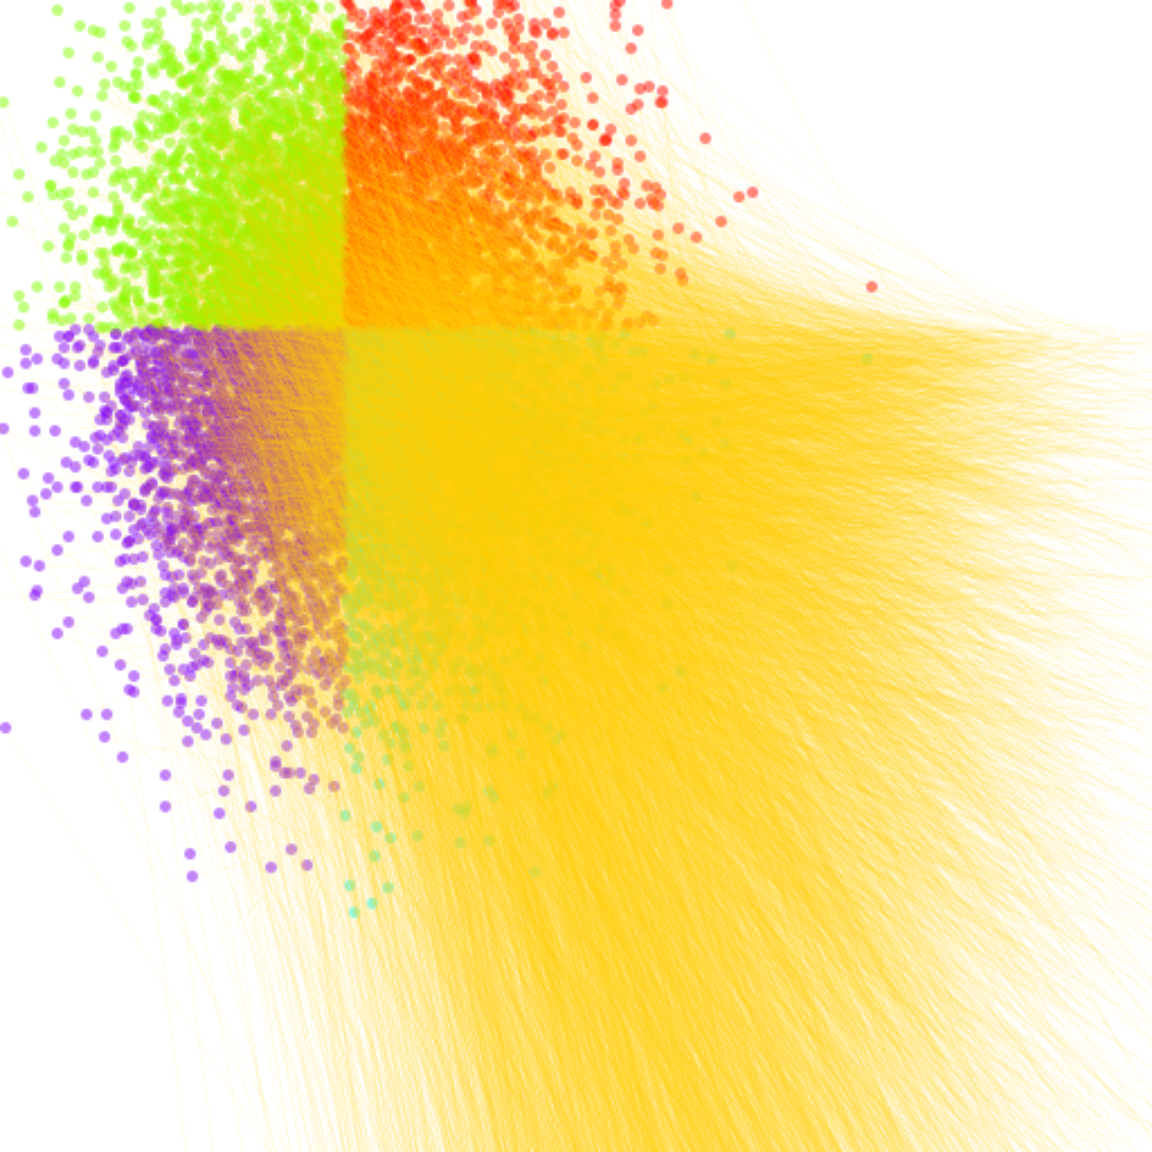
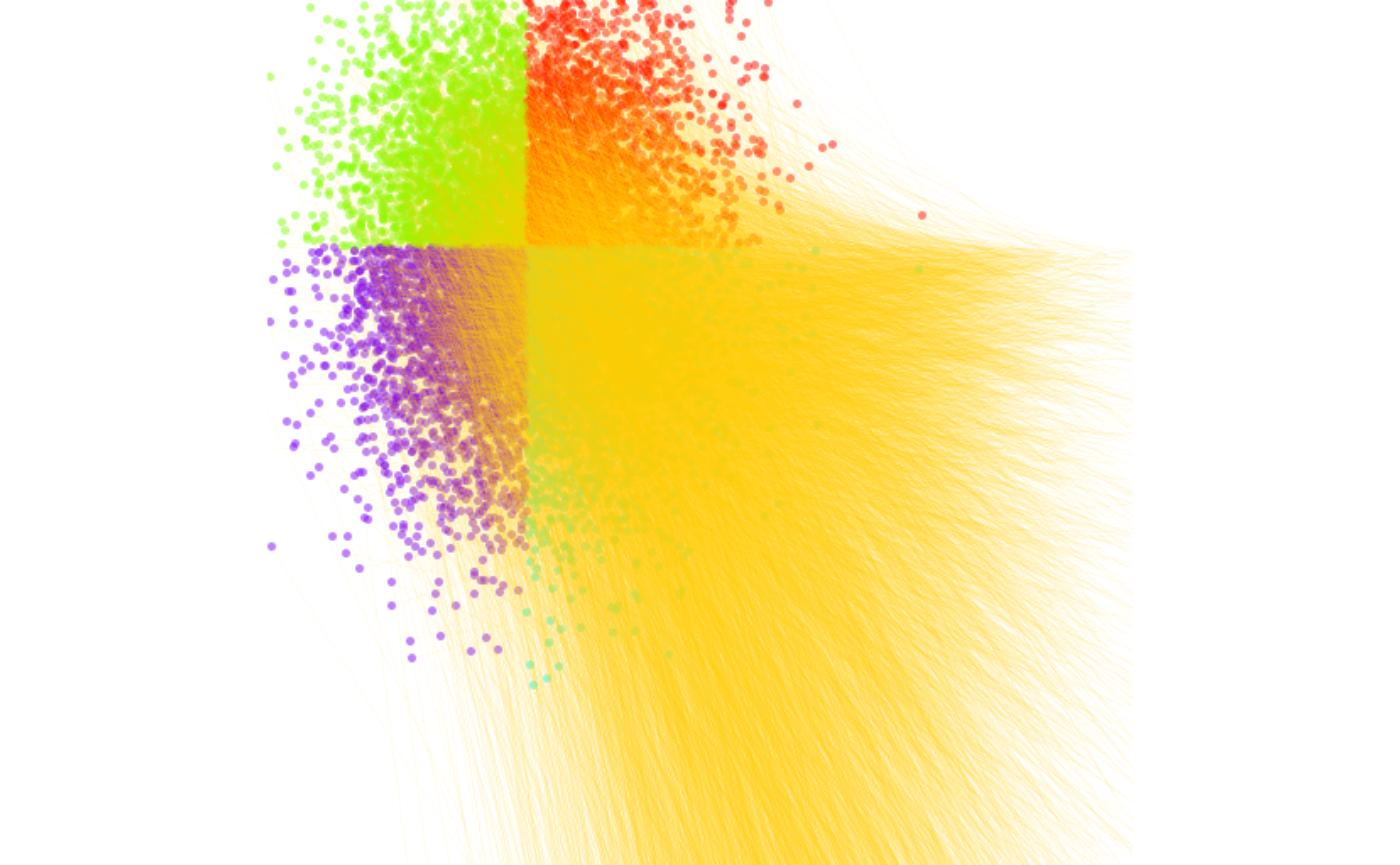
Deploying to gh-pages from @ exaexa/scattermore@2ea18d450dff82cafbe0e912d24947ca24e10dc3 🚀

diff --git a/articles/low_level_interface.html b/articles/low_level_interface.html
@@ -128,14 +128,14 @@ directions:</p>
 <span></span>
 <span><span class="fu"><a href="https://rdrr.io/r/graphics/par.html" class="external-link">par</a></span><span class="op">(</span>mar <span class="op">=</span> <span class="fu"><a href="https://rdrr.io/r/base/c.html" class="external-link">c</a></span><span class="op">(</span><span class="fl">0</span>,<span class="fl">0</span>,<span class="fl">0</span>,<span class="fl">0</span><span class="op">)</span>, bg<span class="op">=</span><span class="st">'white'</span><span class="op">)</span></span>
 <span><span class="fu"><a href="https://rdrr.io/r/graphics/image.html" class="external-link">image</a></span><span class="op">(</span><span class="va">pdens</span><span class="op">)</span></span></code></pre></div>
-<p><img src="low_level_interface_files/figure-html/unnamed-chunk-3-1.png" width="480"></p>
+<p><img src="low_level_interface_files/figure-html/unnamed-chunk-3-1.png" width="700"></p>
 <p>The same can be done for plotting the densities over the lines:</p>
 <div class="sourceCode" id="cb4"><pre class="downlit sourceCode r">
 <code class="sourceCode R"><span><span class="va">ldens</span> <span class="op">&lt;-</span> <span class="fu">scattermore</span><span class="fu">::</span><span class="fu"><a href="../reference/scatter_lines_histogram.html">scatter_lines_histogram</a></span><span class="op">(</span><span class="fu"><a href="https://rdrr.io/r/base/cbind.html" class="external-link">cbind</a></span><span class="op">(</span><span class="va">pts</span>, <span class="va">pts2</span><span class="op">)</span>, out_size<span class="op">=</span><span class="fu"><a href="https://rdrr.io/r/base/c.html" class="external-link">c</a></span><span class="op">(</span><span class="fl">256</span>,<span class="fl">256</span><span class="op">)</span><span class="op">)</span></span>
 <span></span>
 <span><span class="fu"><a href="https://rdrr.io/r/graphics/par.html" class="external-link">par</a></span><span class="op">(</span>mar <span class="op">=</span> <span class="fu"><a href="https://rdrr.io/r/base/c.html" class="external-link">c</a></span><span class="op">(</span><span class="fl">0</span>,<span class="fl">0</span>,<span class="fl">0</span>,<span class="fl">0</span><span class="op">)</span>, bg<span class="op">=</span><span class="st">'white'</span><span class="op">)</span></span>
 <span><span class="fu"><a href="https://rdrr.io/r/graphics/image.html" class="external-link">image</a></span><span class="op">(</span><span class="va">ldens</span><span class="op">)</span></span></code></pre></div>
-<p><img src="low_level_interface_files/figure-html/unnamed-chunk-4-1.png" width="480"></p>
+<p><img src="low_level_interface_files/figure-html/unnamed-chunk-4-1.png" width="700"></p>
 <p>Densities are simple matrices, so in order to improve the
 visualization you can apply the usual R math functions to their
 contents:</p>
@@ -144,7 +144,7 @@ contents:</p>
 <span></span>
 <span><span class="fu"><a href="https://rdrr.io/r/graphics/par.html" class="external-link">par</a></span><span class="op">(</span>mar <span class="op">=</span> <span class="fu"><a href="https://rdrr.io/r/base/c.html" class="external-link">c</a></span><span class="op">(</span><span class="fl">0</span>,<span class="fl">0</span>,<span class="fl">0</span>,<span class="fl">0</span><span class="op">)</span>, bg<span class="op">=</span><span class="st">'white'</span><span class="op">)</span></span>
 <span><span class="fu"><a href="https://rdrr.io/r/graphics/image.html" class="external-link">image</a></span><span class="op">(</span><span class="fu"><a href="https://rdrr.io/r/base/Log.html" class="external-link">log1p</a></span><span class="op">(</span><span class="va">ldens</span><span class="op">)</span><span class="op">)</span></span></code></pre></div>
-<p><img src="low_level_interface_files/figure-html/unnamed-chunk-5-1.png" width="480"></p>
+<p><img src="low_level_interface_files/figure-html/unnamed-chunk-5-1.png" width="700"></p>
 </div>
 <div class="section level3">
 <h3 id="plotting-data-as-colored-pixels">Plotting data as colored pixels<a class="anchor" aria-label="anchor" href="#plotting-data-as-colored-pixels"></a>
@@ -162,7 +162,7 @@ displayed area using <code>xlim</code> and <code>ylim</code>.</p>
 <span></span>
 <span><span class="fu"><a href="https://rdrr.io/r/graphics/par.html" class="external-link">par</a></span><span class="op">(</span>mar<span class="op">=</span><span class="fu"><a href="https://rdrr.io/r/base/c.html" class="external-link">c</a></span><span class="op">(</span><span class="fl">0</span>,<span class="fl">0</span>,<span class="fl">0</span>,<span class="fl">0</span><span class="op">)</span>, bg<span class="op">=</span><span class="st">'white'</span><span class="op">)</span></span>
 <span><span class="fu"><a href="https://rdrr.io/r/graphics/plot.default.html" class="external-link">plot</a></span><span class="op">(</span><span class="va">rstr</span><span class="op">)</span></span></code></pre></div>
-<p><img src="low_level_interface_files/figure-html/unnamed-chunk-6-1.png" width="480"></p>
+<p><img src="low_level_interface_files/figure-html/unnamed-chunk-6-1.png" width="700"></p>
 <p>You can specify a single color (possibly with alpha channel) for
 plotting; here we force a lower resolution and turn off pixel
 interpolation to show the transparency effect more precisely:</p>
@@ -172,7 +172,7 @@ interpolation to show the transparency effect more precisely:</p>
 <span></span>
 <span><span class="fu"><a href="https://rdrr.io/r/graphics/par.html" class="external-link">par</a></span><span class="op">(</span>mar<span class="op">=</span><span class="fu"><a href="https://rdrr.io/r/base/c.html" class="external-link">c</a></span><span class="op">(</span><span class="fl">0</span>,<span class="fl">0</span>,<span class="fl">0</span>,<span class="fl">0</span><span class="op">)</span>, bg<span class="op">=</span><span class="st">'white'</span><span class="op">)</span></span>
 <span><span class="fu"><a href="https://rdrr.io/r/graphics/plot.default.html" class="external-link">plot</a></span><span class="op">(</span><span class="va">rstr</span>, interpolate<span class="op">=</span><span class="cn">F</span><span class="op">)</span></span></code></pre></div>
-<p><img src="low_level_interface_files/figure-html/unnamed-chunk-7-1.png" width="480"></p>
+<p><img src="low_level_interface_files/figure-html/unnamed-chunk-7-1.png" width="700"></p>
 <p>The <code>RGBA</code> parameter may also assign individual colors to
 each pixel:</p>
 <div class="sourceCode" id="cb8"><pre class="downlit sourceCode r">
@@ -181,7 +181,7 @@ each pixel:</p>
 <span></span>
 <span><span class="fu"><a href="https://rdrr.io/r/graphics/par.html" class="external-link">par</a></span><span class="op">(</span>mar<span class="op">=</span><span class="fu"><a href="https://rdrr.io/r/base/c.html" class="external-link">c</a></span><span class="op">(</span><span class="fl">0</span>,<span class="fl">0</span>,<span class="fl">0</span>,<span class="fl">0</span><span class="op">)</span>, bg<span class="op">=</span><span class="st">'white'</span><span class="op">)</span></span>
 <span><span class="fu"><a href="https://rdrr.io/r/graphics/plot.default.html" class="external-link">plot</a></span><span class="op">(</span><span class="va">rstr</span>, interpolate<span class="op">=</span><span class="cn">F</span><span class="op">)</span></span></code></pre></div>
-<p><img src="low_level_interface_files/figure-html/unnamed-chunk-8-1.png" width="480"></p>
+<p><img src="low_level_interface_files/figure-html/unnamed-chunk-8-1.png" width="700"></p>
 <p>For plotting large clusters that share the colors, arguments
 <code>map</code> and <code>palette</code> allow for simpler and more
 efficient specification of the plotting:</p>
@@ -192,7 +192,7 @@ efficient specification of the plotting:</p>
 <span></span>
 <span><span class="fu"><a href="https://rdrr.io/r/graphics/par.html" class="external-link">par</a></span><span class="op">(</span>mar<span class="op">=</span><span class="fu"><a href="https://rdrr.io/r/base/c.html" class="external-link">c</a></span><span class="op">(</span><span class="fl">0</span>,<span class="fl">0</span>,<span class="fl">0</span>,<span class="fl">0</span><span class="op">)</span>, bg<span class="op">=</span><span class="st">'white'</span><span class="op">)</span></span>
 <span><span class="fu"><a href="https://rdrr.io/r/graphics/plot.default.html" class="external-link">plot</a></span><span class="op">(</span><span class="va">rstr</span>, interpolate<span class="op">=</span><span class="cn">F</span><span class="op">)</span></span></code></pre></div>
-<p><img src="low_level_interface_files/figure-html/unnamed-chunk-9-1.png" width="480"></p>
+<p><img src="low_level_interface_files/figure-html/unnamed-chunk-9-1.png" width="700"></p>
 <p>Colored RGBWT lines are plotted similarly:</p>
 <div class="sourceCode" id="cb10"><pre class="downlit sourceCode r">
 <code class="sourceCode R"><span><span class="co">#TODO as.vector</span></span>
@@ -203,7 +203,7 @@ efficient specification of the plotting:</p>
 <span></span>
 <span><span class="fu"><a href="https://rdrr.io/r/graphics/par.html" class="external-link">par</a></span><span class="op">(</span>mar<span class="op">=</span><span class="fu"><a href="https://rdrr.io/r/base/c.html" class="external-link">c</a></span><span class="op">(</span><span class="fl">0</span>,<span class="fl">0</span>,<span class="fl">0</span>,<span class="fl">0</span><span class="op">)</span>, bg<span class="op">=</span><span class="st">'white'</span><span class="op">)</span></span>
 <span><span class="fu"><a href="https://rdrr.io/r/graphics/plot.default.html" class="external-link">plot</a></span><span class="op">(</span><span class="va">rstr</span><span class="op">)</span></span></code></pre></div>
-<p><img src="low_level_interface_files/figure-html/unnamed-chunk-10-1.png" width="576"></p>
+<p><img src="low_level_interface_files/figure-html/unnamed-chunk-10-1.png" width="700"></p>
 </div>
 <div class="section level3">
 <h3 id="expanding-densities-and-rgbwt-plots">Expanding densities and RGBWT plots<a class="anchor" aria-label="anchor" href="#expanding-densities-and-rgbwt-plots"></a>
@@ -222,7 +222,7 @@ computationally regular, giving additional speedups.</p>
 <span></span>
 <span><span class="fu"><a href="https://rdrr.io/r/graphics/par.html" class="external-link">par</a></span><span class="op">(</span>mar<span class="op">=</span><span class="fu"><a href="https://rdrr.io/r/base/c.html" class="external-link">c</a></span><span class="op">(</span><span class="fl">0</span>,<span class="fl">0</span>,<span class="fl">0</span>,<span class="fl">0</span><span class="op">)</span>, bg<span class="op">=</span><span class="st">'white'</span><span class="op">)</span></span>
 <span><span class="fu"><a href="https://rdrr.io/r/graphics/plot.default.html" class="external-link">plot</a></span><span class="op">(</span><span class="va">rstr</span><span class="op">)</span></span></code></pre></div>
-<p><img src="low_level_interface_files/figure-html/unnamed-chunk-11-1.png" width="576"></p>
+<p><img src="low_level_interface_files/figure-html/unnamed-chunk-11-1.png" width="700"></p>
 <p>This is sub-optimal because the pixels are too small; to fix that we
 can expand them:</p>
 <div class="sourceCode" id="cb12"><pre class="downlit sourceCode r">
@@ -232,7 +232,7 @@ can expand them:</p>
 <span></span>
 <span><span class="fu"><a href="https://rdrr.io/r/graphics/par.html" class="external-link">par</a></span><span class="op">(</span>mar<span class="op">=</span><span class="fu"><a href="https://rdrr.io/r/base/c.html" class="external-link">c</a></span><span class="op">(</span><span class="fl">0</span>,<span class="fl">0</span>,<span class="fl">0</span>,<span class="fl">0</span><span class="op">)</span>, bg<span class="op">=</span><span class="st">'white'</span><span class="op">)</span></span>
 <span><span class="fu"><a href="https://rdrr.io/r/graphics/plot.default.html" class="external-link">plot</a></span><span class="op">(</span><span class="va">rstr</span><span class="op">)</span></span></code></pre></div>
-<p><img src="low_level_interface_files/figure-html/unnamed-chunk-12-1.png" width="576"></p>
+<p><img src="low_level_interface_files/figure-html/unnamed-chunk-12-1.png" width="700"></p>
 <p>There are also other expansion options (such as <code>gauss</code>
 and <code>square</code>). You can also supply your own kernel in order
 to plot different shapes of pixels:</p>
@@ -244,7 +244,7 @@ to plot different shapes of pixels:</p>
 <span></span>
 <span><span class="fu"><a href="https://rdrr.io/r/graphics/par.html" class="external-link">par</a></span><span class="op">(</span>mar<span class="op">=</span><span class="fu"><a href="https://rdrr.io/r/base/c.html" class="external-link">c</a></span><span class="op">(</span><span class="fl">0</span>,<span class="fl">0</span>,<span class="fl">0</span>,<span class="fl">0</span><span class="op">)</span>, bg<span class="op">=</span><span class="st">'white'</span><span class="op">)</span></span>
 <span><span class="fu"><a href="https://rdrr.io/r/graphics/plot.default.html" class="external-link">plot</a></span><span class="op">(</span><span class="va">rstr</span><span class="op">)</span></span></code></pre></div>
-<p><img src="low_level_interface_files/figure-html/unnamed-chunk-13-1.png" width="576"></p>
+<p><img src="low_level_interface_files/figure-html/unnamed-chunk-13-1.png" width="700"></p>
 <p>The same can be applied to line data to get thicker lines (we limit
 the number of lines for simplicity here):</p>
 <div class="sourceCode" id="cb14"><pre class="downlit sourceCode r">
@@ -256,7 +256,7 @@ the number of lines for simplicity here):</p>
 <span></span>
 <span><span class="fu"><a href="https://rdrr.io/r/graphics/par.html" class="external-link">par</a></span><span class="op">(</span>mar<span class="op">=</span><span class="fu"><a href="https://rdrr.io/r/base/c.html" class="external-link">c</a></span><span class="op">(</span><span class="fl">0</span>,<span class="fl">0</span>,<span class="fl">0</span>,<span class="fl">0</span><span class="op">)</span>, bg<span class="op">=</span><span class="st">'white'</span><span class="op">)</span></span>
 <span><span class="fu"><a href="https://rdrr.io/r/graphics/plot.default.html" class="external-link">plot</a></span><span class="op">(</span><span class="va">rstr</span><span class="op">)</span></span></code></pre></div>
-<p><img src="low_level_interface_files/figure-html/unnamed-chunk-14-1.png" width="576"></p>
+<p><img src="low_level_interface_files/figure-html/unnamed-chunk-14-1.png" width="700"></p>
 <p>Gaussian kernels are excellent for smoothing out point and line
 densities. As the main change, we need to use the histogram-specific
 kernel function:</p>
@@ -266,7 +266,7 @@ kernel function:</p>
 <span></span>
 <span><span class="fu"><a href="https://rdrr.io/r/graphics/par.html" class="external-link">par</a></span><span class="op">(</span>mar <span class="op">=</span> <span class="fu"><a href="https://rdrr.io/r/base/c.html" class="external-link">c</a></span><span class="op">(</span><span class="fl">0</span>,<span class="fl">0</span>,<span class="fl">0</span>,<span class="fl">0</span><span class="op">)</span>, bg<span class="op">=</span><span class="st">'white'</span><span class="op">)</span></span>
 <span><span class="fu"><a href="https://rdrr.io/r/graphics/image.html" class="external-link">image</a></span><span class="op">(</span><span class="va">pdens</span>, col<span class="op">=</span><span class="fu"><a href="https://rdrr.io/r/grDevices/palettes.html" class="external-link">rainbow</a></span><span class="op">(</span><span class="fl">100</span><span class="op">)</span><span class="op">)</span></span></code></pre></div>
-<p><img src="low_level_interface_files/figure-html/unnamed-chunk-15-1.png" width="480"></p>
+<p><img src="low_level_interface_files/figure-html/unnamed-chunk-15-1.png" width="700"></p>
 <p>The calculated densities can be trivially used for overlaying the
 images with contours. (N. B. that the default gaussian kernels are not
 “balanced” and increase the total weight present in the graphics; you
@@ -276,7 +276,7 @@ parameter.)</p>
 <code class="sourceCode R"><span><span class="fu"><a href="https://rdrr.io/r/graphics/par.html" class="external-link">par</a></span><span class="op">(</span>mar <span class="op">=</span> <span class="fu"><a href="https://rdrr.io/r/base/c.html" class="external-link">c</a></span><span class="op">(</span><span class="fl">0</span>,<span class="fl">0</span>,<span class="fl">0</span>,<span class="fl">0</span><span class="op">)</span>, bg<span class="op">=</span><span class="st">'white'</span><span class="op">)</span></span>
 <span><span class="fu"><a href="https://rdrr.io/r/graphics/image.html" class="external-link">image</a></span><span class="op">(</span><span class="va">pdens</span>, col<span class="op">=</span><span class="fu"><a href="https://rdrr.io/r/grDevices/palettes.html" class="external-link">topo.colors</a></span><span class="op">(</span><span class="fl">100</span><span class="op">)</span><span class="op">[</span><span class="fl">20</span><span class="op">:</span><span class="fl">100</span><span class="op">]</span><span class="op">)</span></span>
 <span><span class="fu"><a href="https://rdrr.io/r/graphics/contour.html" class="external-link">contour</a></span><span class="op">(</span><span class="va">pdens</span><span class="op">-</span><span class="fl">15</span>, levels<span class="op">=</span><span class="fu"><a href="https://rdrr.io/r/base/c.html" class="external-link">c</a></span><span class="op">(</span><span class="op">-</span><span class="fl">10</span>,<span class="fl">0</span>,<span class="fl">30</span><span class="op">)</span>, add<span class="op">=</span><span class="cn">T</span><span class="op">)</span></span></code></pre></div>
-<p><img src="low_level_interface_files/figure-html/unnamed-chunk-16-1.png" width="480"></p>
+<p><img src="low_level_interface_files/figure-html/unnamed-chunk-16-1.png" width="700"></p>
 </div>
 <div class="section level3">
 <h3 id="coloring-densities">Coloring densities<a class="anchor" aria-label="anchor" href="#coloring-densities"></a>
@@ -292,7 +292,7 @@ useful for later blending with other RGBWT data.</p>
 <span></span>
 <span><span class="fu"><a href="https://rdrr.io/r/graphics/par.html" class="external-link">par</a></span><span class="op">(</span>mar<span class="op">=</span><span class="fu"><a href="https://rdrr.io/r/base/c.html" class="external-link">c</a></span><span class="op">(</span><span class="fl">0</span>,<span class="fl">0</span>,<span class="fl">0</span>,<span class="fl">0</span><span class="op">)</span>, bg<span class="op">=</span><span class="st">'white'</span><span class="op">)</span></span>
 <span><span class="fu"><a href="https://rdrr.io/r/graphics/plot.default.html" class="external-link">plot</a></span><span class="op">(</span><span class="va">rstr</span><span class="op">)</span></span></code></pre></div>
-<p><img src="low_level_interface_files/figure-html/unnamed-chunk-17-1.png" width="576"></p>
+<p><img src="low_level_interface_files/figure-html/unnamed-chunk-17-1.png" width="700"></p>
 </div>
 <div class="section level3">
 <h3 id="merging-rgbwt-and-rgba-layers">Merging RGBWT and RGBA layers<a class="anchor" aria-label="anchor" href="#merging-rgbwt-and-rgba-layers"></a>
@@ -324,7 +324,7 @@ commutative (except for small numerical imperfections).</p>
 <span></span>
 <span><span class="fu"><a href="https://rdrr.io/r/graphics/par.html" class="external-link">par</a></span><span class="op">(</span>mar<span class="op">=</span><span class="fu"><a href="https://rdrr.io/r/base/c.html" class="external-link">c</a></span><span class="op">(</span><span class="fl">0</span>,<span class="fl">0</span>,<span class="fl">0</span>,<span class="fl">0</span><span class="op">)</span>, bg<span class="op">=</span><span class="st">'white'</span><span class="op">)</span></span>
 <span><span class="fu"><a href="https://rdrr.io/r/graphics/plot.default.html" class="external-link">plot</a></span><span class="op">(</span><span class="va">rstr</span><span class="op">)</span></span></code></pre></div>
-<p><img src="low_level_interface_files/figure-html/unnamed-chunk-19-1.png" width="576"></p>
+<p><img src="low_level_interface_files/figure-html/unnamed-chunk-19-1.png" width="700"></p>
 <p>In this case, neither the lines and points is “in foreground”, the
 colors are correctly merged according to the total amount of “ink”
 applied to each point in the canvas.</p>
@@ -336,7 +336,7 @@ order. First with lines on top:</p>
 <span></span>
 <span><span class="fu"><a href="https://rdrr.io/r/graphics/par.html" class="external-link">par</a></span><span class="op">(</span>mar<span class="op">=</span><span class="fu"><a href="https://rdrr.io/r/base/c.html" class="external-link">c</a></span><span class="op">(</span><span class="fl">0</span>,<span class="fl">0</span>,<span class="fl">0</span>,<span class="fl">0</span><span class="op">)</span>, bg<span class="op">=</span><span class="st">'white'</span><span class="op">)</span></span>
 <span><span class="fu"><a href="https://rdrr.io/r/graphics/plot.default.html" class="external-link">plot</a></span><span class="op">(</span><span class="va">rstr</span><span class="op">)</span></span></code></pre></div>
-<p><img src="low_level_interface_files/figure-html/unnamed-chunk-20-1.png" width="576"></p>
+<p><img src="low_level_interface_files/figure-html/unnamed-chunk-20-1.png" width="700"></p>
 <p>…and with points on top:</p>
 <div class="sourceCode" id="cb21"><pre class="downlit sourceCode r">
 <code class="sourceCode R"><span><span class="va">rgba</span> <span class="op">&lt;-</span> <span class="fu"><a href="../reference/blend_rgba_float.html">blend_rgba_float</a></span><span class="op">(</span><span class="fu"><a href="https://rdrr.io/r/base/list.html" class="external-link">list</a></span><span class="op">(</span><span class="fu"><a href="../reference/rgbwt_to_rgba_float.html">rgbwt_to_rgba_float</a></span><span class="op">(</span><span class="va">rgbwt2</span><span class="op">)</span>, <span class="fu"><a href="../reference/rgbwt_to_rgba_float.html">rgbwt_to_rgba_float</a></span><span class="op">(</span><span class="va">rgbwt1</span><span class="op">)</span><span class="op">)</span><span class="op">)</span></span>
@@ -344,7 +344,7 @@ order. First with lines on top:</p>
 <span></span>
 <span><span class="fu"><a href="https://rdrr.io/r/graphics/par.html" class="external-link">par</a></span><span class="op">(</span>mar<span class="op">=</span><span class="fu"><a href="https://rdrr.io/r/base/c.html" class="external-link">c</a></span><span class="op">(</span><span class="fl">0</span>,<span class="fl">0</span>,<span class="fl">0</span>,<span class="fl">0</span><span class="op">)</span>, bg<span class="op">=</span><span class="st">'white'</span><span class="op">)</span></span>
 <span><span class="fu"><a href="https://rdrr.io/r/graphics/plot.default.html" class="external-link">plot</a></span><span class="op">(</span><span class="va">rstr</span><span class="op">)</span></span></code></pre></div>
-<p><img src="low_level_interface_files/figure-html/unnamed-chunk-21-1.png" width="576"></p>
+<p><img src="low_level_interface_files/figure-html/unnamed-chunk-21-1.png" width="700"></p>
 <p>For demonstration, we produce a huge, colorful, truly psychidelic
 graphics that combines all of the elements:</p>
 <div class="sourceCode" id="cb22"><pre class="downlit sourceCode r">
@@ -376,7 +376,7 @@ graphics that combines all of the elements:</p>
 <span><span class="fu"><a href="https://rdrr.io/r/graphics/rasterImage.html" class="external-link">rasterImage</a></span><span class="op">(</span><span class="fu"><a href="https://rdrr.io/r/base/t.html" class="external-link">t</a></span><span class="op">(</span><span class="va">rstr</span><span class="op">)</span>, xleft<span class="op">=</span><span class="op">-</span><span class="fl">3</span>, xright<span class="op">=</span><span class="fl">7</span>, ybottom<span class="op">=</span><span class="op">-</span><span class="fl">5</span>, ytop<span class="op">=</span><span class="fl">2</span><span class="op">)</span></span>
 <span><span class="co"># a trick is required to flip the bitmap vertically</span></span>
 <span><span class="fu"><a href="https://rdrr.io/r/graphics/contour.html" class="external-link">contour</a></span><span class="op">(</span><span class="fu"><a href="https://rdrr.io/r/base/seq.html" class="external-link">seq</a></span><span class="op">(</span><span class="op">-</span><span class="fl">3</span>,<span class="fl">7</span>,length.out<span class="op">=</span><span class="fl">512</span><span class="op">)</span>, y<span class="op">=</span><span class="fu"><a href="https://rdrr.io/r/base/seq.html" class="external-link">seq</a></span><span class="op">(</span><span class="op">-</span><span class="fl">5</span>,<span class="fl">2</span>,length.out<span class="op">=</span><span class="fl">512</span><span class="op">)</span>, <span class="va">pdens</span><span class="op">[</span>,<span class="fu"><a href="https://rdrr.io/r/base/nrow.html" class="external-link">ncol</a></span><span class="op">(</span><span class="va">pdens</span><span class="op">)</span><span class="op">:</span><span class="fl">1</span><span class="op">]</span>, add<span class="op">=</span><span class="cn">T</span>, levels<span class="op">=</span><span class="fu"><a href="https://rdrr.io/r/base/c.html" class="external-link">c</a></span><span class="op">(</span><span class="fl">2</span>,<span class="fl">10</span><span class="op">)</span><span class="op">)</span></span></code></pre></div>
-<p><img src="low_level_interface_files/figure-html/unnamed-chunk-22-1.png" width="576"></p>
+<p><img src="low_level_interface_files/figure-html/unnamed-chunk-22-1.png" width="700"></p>
 </div>
 <div class="section level3">
 <h3 id="exporting-high-quality-graphics">Exporting high-quality graphics<a class="anchor" aria-label="anchor" href="#exporting-high-quality-graphics"></a>
